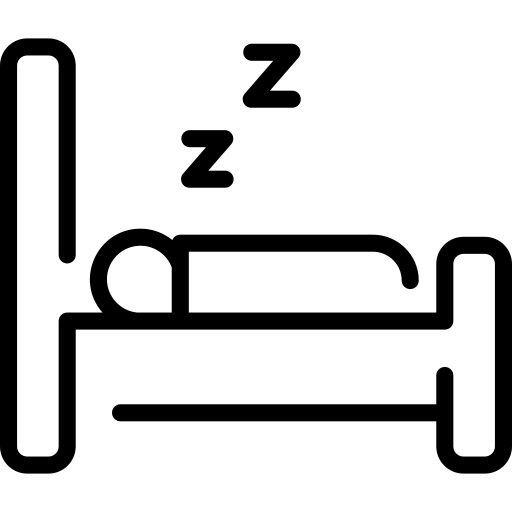
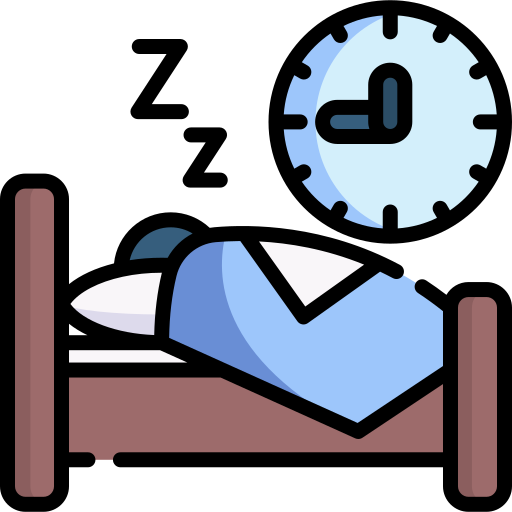
feat(frontend): Aplicado el feedback dado a la sección mental

diff --git a/frontend/src/app/pages/nueva-entrada-mental/nueva-entrada-mental.page.html b/frontend/src/app/pages/nueva-entrada-mental/nueva-entrada-mental.page.html
@@ -7,8 +7,7 @@
 </ion-header>
 
 <ion-content class="ion-padding" color="light">
- 
-
+  
     <ion-card color = "warning">
 
       <ion-text color="primary">
@@ -18,7 +17,7 @@
       <div class="invalid-feedback error" *ngIf="errorMessage"  > {{errorMessage}}</div>
 
       <ion-label style = "padding-inline-start: 6%;" display="block" position="floating">¿Cómo te has sentido hoy?</ion-label>
-      <ion-item color = "warning" style="padding-top: 3%;">
+      <ion-item color = "warning" style="padding-top: 3%; margin-bottom: 5%;">
         <ion-segment [(ngModel)]="estadoFisico" scrollable>
           <ion-segment-button value="VG">
             <img src="/assets/images/cara-muy-feliz.png">
@@ -38,26 +37,32 @@
         </ion-segment>
       </ion-item>
 
-      <ion-label style = "padding-inline-start: 6%;" display="block" position="floating">¿Cómo dormiste anoche?</ion-label>
-      <ion-item color = "warning" style="padding-top: 3%;">
+      <ion-label style = "padding-inline-start: 6%;" display="block" position="floating">¿Cómo consideras que dormistes anoche?</ion-label>
+      <ion-item color = "warning" style="padding-top: 3%; margin-bottom: 5%;">
         <ion-segment [(ngModel)]="suenyo" scrollable>
           <ion-segment-button value="DEEP">
             <img src="/assets/images/slumber.png">
           </ion-segment-button>
-          <ion-segment-button value="LIGHT">
+          <ion-segment-button value="NORMAL">
             <img src="/assets/images/sleeping.png">
           </ion-segment-button>
+          <ion-segment-button value="LIGHT">
+            <img src="/assets/images/light-sleep.png">
+          </ion-segment-button>
           <ion-segment-button value="NONE">
-            <img src="/assets/images/hotel-bed.png">
+            <img src="/assets/images/insomnia.png">
           </ion-segment-button>
         </ion-segment>
       </ion-item>
 
-      <ion-label style = "padding-inline-start: 6%;" display="block" position="floating">¿Qúe has comido hoy?</ion-label>
-      <ion-item color = "warning" style="padding-top: 3%;">
+      <ion-label style = "padding-inline-start: 6%;" display="block" position="floating">¿Cómo consideras que has comido hoy?</ion-label>
+      <ion-item color = "warning" style="padding-top: 3%; margin-bottom: 5%;">
         <ion-segment [(ngModel)]="comida" scrollable>
           <ion-segment-button value="HEALTHY">
             <img src="/assets/images/salad.png">
+          </ion-segment-button>
+          <ion-segment-button value="NORMAL">
+            <img src="/assets/images/normal-food.png">
           </ion-segment-button>
           <ion-segment-button value="FAST">
             <img src="/assets/images/hamburger.png">
@@ -69,7 +74,7 @@
       </ion-item>
 
       <ion-label style = "padding-inline-start: 6%;" display="block" position="floating">¿Qué tiempo ha hecho hoy?</ion-label>
-      <ion-item color = "warning" style="padding-top: 3%;">
+      <ion-item color = "warning" style="padding-top: 3%; margin-bottom: 2%;">
         <ion-segment [(ngModel)]="tiempo" scrollable>
           <ion-segment-button value="SUNNY">
             <img src="/assets/images/dom.png">
@@ -101,7 +106,7 @@
 
       <ion-item color = "warning">
         <ion-label position="floating">Notas</ion-label>
-        <ion-textarea [(ngModel)]="notas" rows= "3" placeholder="Aquí puedes explicar y desarrollar lo que desees sobre las preguntas anteriores u otras cuestiones a parte." type="text"></ion-textarea>
+        <ion-textarea [(ngModel)]="notas" rows= "3" placeholder="Si quieres explicar algo más sobre las preguntas anteriores o contarnos tu día, aquí nos tienes :)" type="text"></ion-textarea>
       </ion-item>
 
       <ion-button color="dark" expand="block" (click)="crearEntradaMental()">

diff --git a/frontend/src/app/pages/modificar-mental/modificar-mental.page.html b/frontend/src/app/pages/modificar-mental/modificar-mental.page.html
@@ -15,7 +15,7 @@
       </ion-text>
 
       <ion-label style = "padding-inline-start: 6%;" display="block" position="floating">¿Cómo te has sentido hoy?</ion-label>
-      <ion-item color = "warning" style="padding-top: 3%;">
+      <ion-item color = "warning" style="padding-top: 3%; margin-bottom: 5%;">
         <ion-segment [(ngModel)]="estadoFisico" scrollable>
           <ion-segment-button value="VG">
             <img src="/assets/images/cara-muy-feliz.png">
@@ -35,26 +35,32 @@
         </ion-segment>
       </ion-item>
 
-      <ion-label style = "padding-inline-start: 6%;" display="block" position="floating">¿Cómo dormiste anoche?</ion-label>
-      <ion-item color = "warning" style="padding-top: 3%;">
+      <ion-label style = "padding-inline-start: 6%;" display="block" position="floating">¿Cómo consideras que dormistes anoche?</ion-label>
+      <ion-item color = "warning" style="padding-top: 3%; margin-bottom: 5%;">
         <ion-segment [(ngModel)]="suenyo" scrollable>
           <ion-segment-button value="DEEP">
             <img src="/assets/images/slumber.png">
           </ion-segment-button>
-          <ion-segment-button value="LIGHT">
+          <ion-segment-button value="NORMAL">
             <img src="/assets/images/sleeping.png">
           </ion-segment-button>
+          <ion-segment-button value="LIGHT">
+            <img src="/assets/images/light-sleep.png">
+          </ion-segment-button>
           <ion-segment-button value="NONE">
-            <img src="/assets/images/hotel-bed.png">
+            <img src="/assets/images/insomnia.png">
           </ion-segment-button>
         </ion-segment>
       </ion-item>
 
-      <ion-label style = "padding-inline-start: 6%;" display="block" position="floating">¿Qúe has comido hoy?</ion-label>
-      <ion-item color = "warning" style="padding-top: 3%;">
+      <ion-label style = "padding-inline-start: 6%;" display="block" position="floating">¿Cómo consideras que has comido hoy?</ion-label>
+      <ion-item color = "warning" style="padding-top: 3%; margin-bottom: 5%;">
         <ion-segment [(ngModel)]="comida" scrollable>
           <ion-segment-button value="HEALTHY">
             <img src="/assets/images/salad.png">
+          </ion-segment-button>
+          <ion-segment-button value="NORMAL">
+            <img src="/assets/images/normal-food.png">
           </ion-segment-button>
           <ion-segment-button value="FAST">
             <img src="/assets/images/hamburger.png">
@@ -66,7 +72,7 @@
       </ion-item>
 
       <ion-label style = "padding-inline-start: 6%;" display="block" position="floating">¿Qué tiempo ha hecho hoy?</ion-label>
-      <ion-item color = "warning" style="padding-top: 3%;">
+      <ion-item color = "warning" style="padding-top: 3%; margin-bottom: 2%;">
         <ion-segment [(ngModel)]="tiempo" scrollable>
           <ion-segment-button value="SUNNY">
             <img src="/assets/images/dom.png">
@@ -98,7 +104,7 @@
 
       <ion-item color = "warning">
         <ion-label position="floating">Notas</ion-label>
-        <ion-textarea [(ngModel)]="notas" rows= "3" placeholder="Aquí puedes explicar y desarrollar lo que desees sobre las preguntas anteriores u otras cuestiones a parte." type="text"></ion-textarea>
+        <ion-textarea [(ngModel)]="notas" rows= "3" placeholder="Si quieres explicar algo más sobre las preguntas anteriores o contarnos tu día, aquí nos tienes :)" type="text"></ion-textarea>
       </ion-item>
 
       <ion-button color="dark" expand="block" (click)="editarEntradaMental()">

diff --git a/frontend/src/app/pages/detalles-mental/detalles-mental.page.html b/frontend/src/app/pages/detalles-mental/detalles-mental.page.html
@@ -5,23 +5,18 @@
 </ion-header>
 
 <ion-content>
-  <ion-card color="warning" *ngIf="entrada!=undefined||entrada!=null">
+  <ion-card color="warning" style="padding: 25px; margin-bottom: 75px" *ngIf="entrada!=undefined||entrada!=null">
     <div style="text-align: center;">
-      <div style="text-align: right; margin-right: 15px; margin-top: 20px">
-        
-      </div>
-      <h3 style="margin-top: 0px">{{ entrada.date }}</h3>
+      <h1 style="margin-top: 0px"><b>{{ entrada.date }}</b></h1>
     </div>
 
     <div style="text-align: center">
       <ion-row>
         <ion-col>
-          <h3>
-            Ánimo: <img src="{{getImagenEstado(entrada.state)}}"  style="width: 3rem;" >
-          </h3>
+          <h3><b>Ánimo: </b><img src="{{getImagenEstado(entrada.state)}}"  style="width: 3rem;"></h3>
         </ion-col>
         <ion-col>
-          <h3>Sueño: <img src="{{getImagenSuenyo(entrada.sleep)}}"  style="width: 3rem;" ></h3>
+          <h3><b>Sueño: </b><img src="{{getImagenSuenyo(entrada.sleep)}}"  style="width: 3rem;" ></h3>
         </ion-col>
       </ion-row>
     </div>
@@ -29,28 +24,29 @@
     <div style="text-align: center">
       <ion-row>
         <ion-col>
-          <h3>
-            Tiempo:<img src="{{getImagenTiempo(entrada.weather)}}"  style="width: 3rem;" >
-            
-          </h3>
+          <h3><b>Tiempo: </b><img src="{{getImagenTiempo(entrada.weather)}}"  style="width: 3rem;"></h3>
         </ion-col>
         <ion-col>
-          <h3>Comida: <img src="{{getImagenComida(entrada.food)}}"  style="width: 3rem;" ></h3>
+          <h3><b>Comida: </b><img src="{{getImagenComida(entrada.food)}}"  style="width: 3rem;" ></h3>
         </ion-col>
       </ion-row>
     </div>  
 
-    <div style="text-align: center"><h3>Pensamientos Postivos</h3></div>
-    <div style="text-align: center; margin-bottom: 10px">
-      {{ entrada.positive_thoughts}}
-    </div>
-    <div style="text-align: center"><h3>Pensamientos Negativos</h3></div>
-    <div style="text-align: center; margin-bottom: 10px">
-      {{ entrada.negative_thoughts}}
+    <div style="text-align: center"><h3><b>Pensamientos Postivos</b></h3></div>
+    <div style="text-align: left; margin-top: 10px; margin-bottom: 10px">
+      <p [innerHTML]="entrada.positive_thoughts"></p>
     </div>
 
-    <div style="text-align: center"><h3>Notas</h3></div>
-    <div style="text-align: center; margin-bottom: 10px">{{ entrada.notes}}</div>
+    <div style="text-align: center"><h3><b>Pensamientos Negativos</b></h3></div>
+    <div style="text-align: left; margin-top: 10px; margin-bottom: 10px">
+      <p [innerHTML]="entrada.negative_thoughts"></p>
+    </div>
+
+    <div style="text-align: center"><h3><b>Notas</b></h3></div>
+    <div style="text-align: left; margin-top: 10px; margin-bottom: 10px">
+      <p [innerHTML]="entrada.notes"></p>
+    </div>
+    
   </ion-card>
   <ion-fab style = "padding-inline-start: 5%;" slot = "fixed" vertical = "bottom" horizontal = "beginning">
     <ion-fab-button  color = "secondary" [routerLink]="['/app/Tabs/DiarioEmocional']">

diff --git a/frontend/src/app/tab2/tab2.page.ts b/frontend/src/app/tab2/tab2.page.ts
@@ -75,32 +75,30 @@ getImagenComida(imagen:string): any {
   if(imagen == "HEALTHY" ){
     return "/assets/images/salad.png";
   }
+  if(imagen == "NORMAL" ){
+    return "/assets/images/normal-food.png";
+  }
   if(imagen == "FAST" ){
     return "/assets/images/hamburger.png";
   }
-  
   if(imagen == "NONE" ){
     return "/assets/images/plato.png";
   }
-  
-
-  
-
 }
 
 getImagenSuenyo(imagen:string): any {
   if(imagen == "DEEP" ){
     return "/assets/images/slumber.png";
   }
-  if(imagen == "LIGHT" ){
+  if(imagen == "NORMAL" ){
     return "/assets/images/sleeping.png";
   }
-  
-  if(imagen == "NONE" ){
-    return "/assets/images/hotel-bed.png";
+  if(imagen == "LIGHT" ){
+    return "/assets/images/light-sleep.png";
   }
-  
-
+  if(imagen == "NONE" ){
+    return "/assets/images/insomnia.png";
+  }
 }
 
 getImagenTiempo(imagen:string): any {

diff --git a/frontend/src/app/pages/detalles-mental/detalles-mental.page.ts b/frontend/src/app/pages/detalles-mental/detalles-mental.page.ts
@@ -16,12 +16,19 @@ export class DetallesMentalPage implements OnInit {
   ngOnInit() {
     this.service.getEntradaMental(this.route.snapshot.paramMap.get("id")).subscribe({
       next: data =>{
-        this.entrada = data
+        this.entrada = data;
+        this.replaceSaltosLinea(this.entrada);
       },
       error:err=>{
         console.log(err.error.message)
       }
     })
+  }
+
+  replaceSaltosLinea(entry: mentalEntry): any {
+    entry.positive_thoughts = entry.positive_thoughts.replace(/\n/g, '<br>');
+    entry.negative_thoughts = entry.negative_thoughts.replace(/\n/g, '<br>');
+    entry.notes = entry.notes.replace(/\n/g, '<br>');
   }
 
   getImagenEstado(imagen:string): any {
